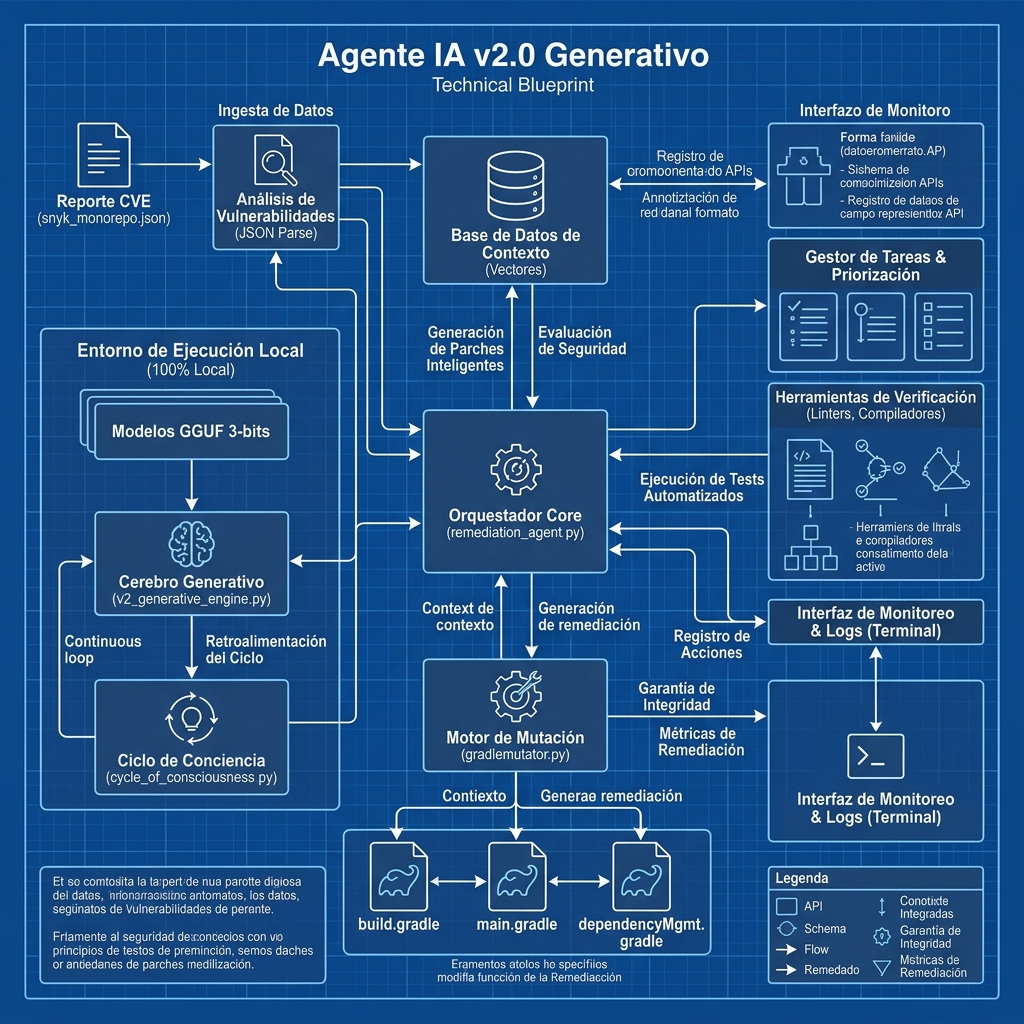
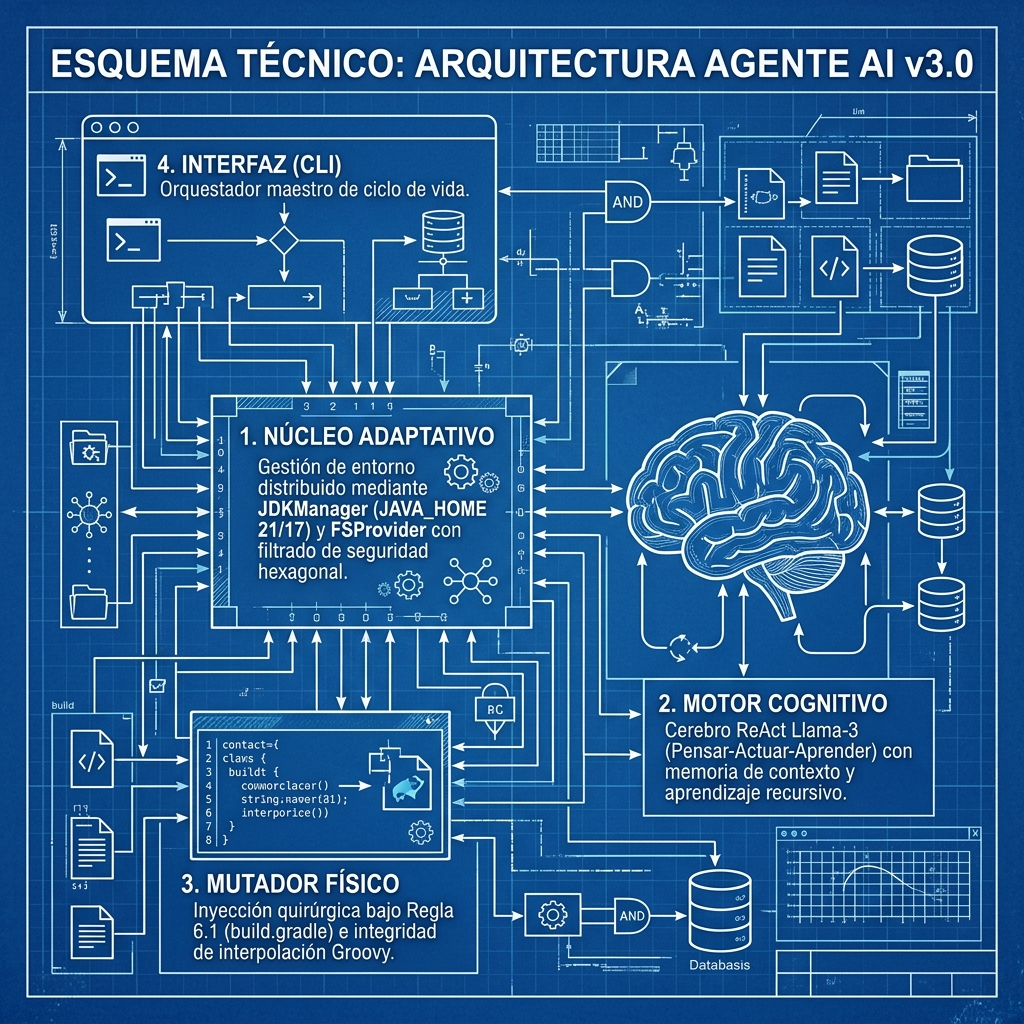
docs: update technical documentation and architecture diagrams to reflect v3.0 Adaptive features and self-healing workflow

diff --git a/README.md b/README.md
@@ -1,98 +1,113 @@
-# 🛡 Agente de Seguridad SCA: v.3.0 "Zero-Risk" (Edición Inteligencia Adaptativa)
+# 🛡 Agente de Seguridad SCA: v.3.0 "Adaptive Intelligence"
 
-Bienvenido a la **Versión 2.0** del Agente de Remediación. Este sistema ha evolucionado de un modelo predictivo tradicional a un ecosistema de **Inteligencia Artificial Generativa Autónoma**.
+Bienvenido a la **Versión 3.0** del Agente de Remediación. Este sistema ha evolucionado hacia un modelo de **Inteligencia Adaptativa**, capaz de diagnosticar y ajustarse automáticamente a las restricciones de tu entorno físico (JDK, arquitectura multi-módulo) para garantizar remediaciones exitosas.
 
-## 🚀 ¿Qué hay de nuevo en la v.3.0 "Zero-Risk"?
+## 🚀 ¿Qué hay de nuevo en la v.3.0?
 
-A diferencia de las versiones anteriores, la v.3.0 integra **Resiliencia Física y Aprendizaje Adaptativo**.
+A diferencia de las versiones anteriores, la v.3.0 integra **Resiliencia Física y Aprendizaje de Entorno**.
 
-*   **Inteligencia Adaptativa**: El Agente sobreescribe versiones del reporte si detecta fallos de compilación, aprendiendo del error en tiempo real.
-*   **Auto-Sanación Estructural (Auto-Heal)**: Reconstruye `dependencyMgmt.gradle` y cura vínculos en `main.gradle` o `gradle.properties` de forma quirúrgica.
-*   **Veracidad Física**: Se garantiza el éxito de `compileJava` antes de cualquier confirmación de cambio.
-*   **Protección de Infraestructura**: Excluye automáticamente carpetas críticas (`agent_ia`, `stress`, `certification`) para evitar auto-mutaciones.
+*   **Adaptive JDK Discovery**: Detecta automáticamente versiones compatibles de Java (JDK 21/17) para evitar errores de runtime, ignorando versiones incompatibles del sistema.
+*   **Filtrado Inteligente de Monorepo**: Discrimina automáticamente entre microservicios reales y sub-módulos (api, usecase, domain), evitando procesos innecesarios en componentes internos.
+*   **Prioridad de Mutación Crítica**: Centraliza las variables `ext` en `build.gradle` (prioritario) sobre `main.gradle`, manteniendo el estándar de arquitectura limpia.
+*   **Auto-Sanación de Infraestructura**: Reconstruye dependencias de soporte y cura vínculos de configuración de forma quirúrgica.
 
-### 🧠 El Marco ReAct (Reason + Act)
-El agente sigue un ciclo lógico:
-1.  **PENSAMIENTO**: Analiza la vulnerabilidad (CVE) y determina agrupaciones por familias.
-2.  **ACCIÓN**: Define el cambio de código y la creación de infraestructura necesaria.
-3.  **EXPLICACIÓN**: Justifica técnicamente la remediación siguiendo el **Estándar de Trinomio**.
+### 🧠 El Ciclo Adaptive ReAct
+El agente opera mediante un flujo coordinado entre sus componentes:
+
+1.  **DESCUBRIMIENTO** (`providers.py`): `FSProvider` escanea el entorno excluyendo sub-directorios técnicos.
+2.  **ADAPTACIÓN** (`providers.py`): `JDKManager` inyecta el entorno Java óptimo para Gradle.
+3.  **PENSAMIENTO** (`consciousness.py`): Analiza la vulnerabilidad (CVE) y decide la estrategia.
+4.  **MUTACIÓN** (`mutator.py`): `GradleMutator` aplica el cambio físico en los archivos `.gradle`.
+5.  **VALIDACIÓN** (`providers.py`): `GradleProvider` certifica el éxito del build antes de confirmar.
 
 ![Ciclo de Entrenamiento y Conciencia](agent_ia/docs/assets/ciclo_entrenamiento.png)
-*Visualización del Ciclo de Conciencia v.3.0: Desde la detección hasta la auto-corrección.*
+*Evolución v.3.0: Desde el descubrimiento adaptativo hasta la auto-corrección certificada.*
 
-## 🛡 Garantía de Privacidad: Tu código NO sale de tu equipo
+### 🛠 Desglose del Ciclo Adaptive ReAct (Técnico)
+```mermaid
+graph TD
+    A[Snyk Report / JSON] --> B(FSProvider: Escaneo & Filtrado)
+    B --> C{¿Módulo Raíz?}
+    C -- No --> B
+    C -- Si --> D(JDKManager: Adaptación de Entorno)
+    D --> E[Inyección de JAVA_HOME 21/17]
+    E --> F(DependencyGraph: Análisis de Linaje)
+    F --> G(Cerebro ReAct: Llama-3 ICL)
+    G --> H{¿Propuesta Lista?}
+    H -- Si --> I(GradleMutator: Mutación Física)
+    I --> J(GradleProvider: Validación Build)
+    J --> K{¿Build Successful?}
+    K -- No --> L[Aprendizaje Recursivo: Re-inyección de Error]
+    L --> G
+    K -- Si --> M[Persistencia Git / Commit v3.0]
+```
+
+## 🛡 Garantía de Privacidad
 > [!IMPORTANT]
 > **Es un sistema 100% privado y desconectado.** 
 > - **Sin Internet**: Operación local absoluta.
 > - **Tu código se queda en casa**: Ningún dato sale de tu entorno.
 > - **Cerebro Local**: Inferencia mediante modelos GGUF optimizados.
 
-## 🛠 Arquitectura Técnica
-El agente opera como una colmena coordinada de componentes locales:
+## 🛠 Arquitectura de Componentes
+El agente es un ecosistema de clases especializadas trabajando en armonía:
 
 ![Arquitectura Técnica del Agente](agent_ia/docs/assets/arquitectura_tecnica.png)
-*Arquitectura Transparente: Privacidad por diseño e integración nativa con Gradle.*
+*Arquitectura 3.0: Adaptabilidad por diseño e integración profunda con Gradle.*
 
-- **Motor de Inferencia**: `llama-cpp-python` (Optimizado para modelos GGUF).
-- **Mutación Estructural**: `GradleMutator` con capacidades de inyección y vinculación dinámica.
-- **Auto-Purge**: Limpieza automática de variables redundantes.
+### 📂 Mapa de Componentes y Archivos
+```mermaid
+classDiagram
+    class RemediationAgent {
+        +run()
+        +orchestrateCycle()
+    }
+    class Providers {
+        +FSProvider (Filtro Hexagonal)
+        +JDKManager (Adaptive JDK 21/11)
+        +GradleProvider (Build & Validate)
+    }
+    class Mutator {
+        +GradleMutator (Regla 6.1 Priority)
+        +applyInjection()
+    }
+    class Engine {
+        +GenerativeLLM (Llama-3 GGUF)
+        +Consciousness (ReAct Logic)
+    }
+    
+    RemediationAgent --> Providers : Uses
+    RemediationAgent --> Engine : Directs
+    Engine --> Mutator : Instructs
+    Providers --> Mutator : Validates
+    
+    style Providers fill:#f9f,stroke:#333,stroke-width:2px
+    style Mutator fill:#bbf,stroke:#333,stroke-width:2px
+    style Engine fill:#dfd,stroke:#333,stroke-width:2px
+```
+
+- **`remediation_agent.py`**: El orquestador maestro que coordina el ciclo de vida.
+- **`providers.py`**: Inteligencia ambiental (Gestión de JDK, Archivos y Gradle).
+- **`mutator.py`**: El motor físico de cambio. Implementa las "Leyes de Inyección".
+- **`consciousness.py`**: El bucle de razonamiento que aprende de los errores de compilación.
 
 ## 📋 Requisitos de Entorno
-- **Python 3.10+** (Recomendado 3.11+)
-- **Java 21 (LTS)**: Requisito fundamental. Se requiere configuración modular (`jvmargs`) para compatibilidad industrial con Lombok.
-- **Git**: Instalado y configurado para persistencia de remediación exitosa.
-- **Suite de Certificación**: Acceso al script `run_master_certification.py` para auditorías de cumplimiento.
+- **Python 3.10+**
+- **Java 21/17**: El agente descubrirá automáticamente estas versiones en tu equipo.
+- **Git**: Requerido para la persistencia de remediaciones mediante el flag `-c`.
 
 ## 🖱 Guía de Ejecución Rápida
-El Agente es flexible y permite operar en modo "Solo Lectura/Escritura Local" o en modo "Persistencia Git". Selecciona la combinación que mejor se adapte a tu flujo de trabajo:
-
-### 🎮 Combinaciones de Comandos
 
 | Caso de Uso | Comando Sugerido | Descripción |
 | :--- | :--- | :--- |
-| **Fix Local (Dry-Run)** | `python3 remediation_agent.py` | Modifica los archivos físicamente pero **NO crea ramas ni commits**. Útil para inspección manual previa. |
-| **Remediación Total Segura** | `python3 remediation_agent.py -c` | El estándar de producción. Aplica cambios, valida y **crea rama/commit** solo si el build es exitoso. |
-| **Foco en Microservicio** | `python3 remediation_agent.py -f ms-auth -c` | Ejecuta la inteligencia solo en la carpeta especificada y persiste resultados validados en Git. |
-| **Diagnóstico & Debug** | `python3 remediation_agent.py --debug -f ms-clients` | Habilita la salida detallada de Gradle en tiempo real para entender por qué falla un test. |
-| **Entorno Personalizado** | `python3 remediation_agent.py --gradle-path /usr/bin/gradle -c` | Fuerza el uso de una instalación específica de Gradle en entornos donde no existe el `gradlew`. |
-| **Reporte Externo** | `python3 remediation_agent.py --report scanning_report.json` | Ejecuta el ciclo de remediación basándose en un archivo JSON específico de vulnerabilidades. |
+| **Fix Global v.3.0** | `python3 remediation_agent.py` | Remedia todo el monorepo con lógica adaptativa. |
+| **Commit Certificado** | `python3 remediation_agent.py -c` | Persiste en Git solo si el build es exitoso. |
+| **Foco Específico** | `python3 remediation_agent.py -f ms-auth` | Prioriza un microservicio específico. |
+| **Modo Transparente** | `python3 remediation_agent.py --debug` | Muestra la salida real de Gradle y el pensamiento de la IA. |
 
-### 🛡 Lógica de Persistencia `--commit`
-Es importante entender que el Agente prioriza la integridad del monorepo:
-1. **Sin el flag `--commit`**: El agente es destructivo localmente (modifica archivos) pero **conservador en Git**.
-2. **Con el flag `--commit`**: El agente garantiza que **CADA commit es un BUILD SUCCESSFUL**. Si la validación falla, se realiza un rollback automático y Git permanece limpio.
-
-## 🔍 Monitoreo y Depuración (Modo Debug)
-Si el proceso de validación (`gradle clean test`) toma mucho tiempo y deseas ver qué está ocurriendo, puedes activar el **Modo Debug** para habilitar la salida detallada de Gradle en tiempo real.
-
-### Via Flag CLI:
-```bash
-python3 remediation_agent.py --debug
-```
-
-### Combinando Flags:
-```bash
-python3 remediation_agent.py -f ms-clients --debug
-```
-
-## ✨ Últimas Innovaciones v.3.0
-
-### 🧩 Almacenamiento de Dependencias Híbrido
-A diferencia de versiones anteriores que delegaban todo a la centralización, la **v.3.0** utiliza ahora un enfoque híbrido:
-- **Centralización Directa**: Mantiene las reglas de resolución en `dependencyMgmt.gradle`.
-- **Preservación Local**: Las líneas `implementation` en cada `build.gradle` se mantienen, pero se sustituyen automáticamente por variables (ej. `implementation "group:artifact:${varName}"`), garantizando que el microservicio siga siendo autodocumentado.
-
-## 📚 Gobernanza y Documentación
-Para profundizar en la arquitectura y operación del Agente, consulta los manuales maestros:
-
-1.  👉 **[Master Remediation Rulebook v.3.0](agent_ia/docs/remediation_rules.md)**: Estándares técnicos, leyes de inyección y protocolos de Git.
-2.  👉 **[Technical & Operator Manual](agent_ia/docs/manuals/TECHNICAL_MANUAL.md)**: Teoría de la IA Autónoma, facultades del Agente, flujos de ejecución y resolución de problemas.
-
-### 🏗 Inyección de Configuración Robusta (v.3.0)
-El motor de mutación ha sido rediseñado para una **Estética Industrial**:
-- **Indentación Estándar**: Cada bloque inyectado sigue el estándar de **4 espacios**, garantizando limpieza visual en el código fuente.
-- **Veracidad de Compilación**: Cada parche es validado físicamente previo a su aprobación lógica.
-- **Header Dinámico**: Metadatos de seguridad claros en cada script generado.
+## 📚 Documentación Maestra
+1.  👉 **[Rulebook v.3.0](agent_ia/docs/remediation_rules.md)**: Estándares de inyección y prioridad de archivos.
+2.  👉 **[Technical Manual](agent_ia/docs/manuals/TECHNICAL_MANUAL.md)**: Guía profunda sobre la arquitectura adaptativa.
 
 ---
 *Protección Generativa para Microservices. Inteligencia v.3.0 Local y Privada.*

diff --git a/agent_ia/docs/manuals/TECHNICAL_MANUAL.md b/agent_ia/docs/manuals/TECHNICAL_MANUAL.md
@@ -1,52 +1,84 @@
-# Manual Técnico y de Operación: Agente IA v.3.0
+# Manual Técnico y de Operación: Agente IA v.3.0 Adaptive
 
-Este documento constituye la fuente única de verdad para entender la teoría, las facultades autónomas y la operación práctica del Agente de Remediación Generativa.
-
----
-
-## 1. Fundamentos de la IA Autónoma
-
-A diferencia de la automatización tradicional, este sistema opera como un **Agente Inteligente** con capacidades cognitivas aplicadas a la ciberseguridad.
-
-### 🧠 Facultades del Agente
-*   **Razonamiento ReAct (Cerebro)**: El Agente no ejecuta comandos ciegos. Sigue un ciclo cognitivo de **Pensamiento -> Acción -> Explicación**, permitiéndole entender el contexto semántico de un microservicio antes de proponer un cambio.
-*   **Ciclo de Autocorrección (Self-Healing)**: Si una validación falla (ej. error de compilación), el Agente captura el log de error, lo interpreta como una nueva lección y genera una propuesta corregida de forma recursiva.
-*   **In-Context Learning (ICL)**: El sistema no requiere reglas estáticas para cada librería. Deduce la solución óptima vinculando dinámicamente el Master Rulebook, los datos del CVE y la estructura real de los archivos Gradle.
-*   **Orquestación Atómica ("Success or Nothing")**: El Agente coordina backups preventivos, mutaciones multivariantes y validación de salud en una sola operación atómica. Si el éxito no está garantizado, el sistema realiza un rollback completo.
+Este documento constituye la fuente única de verdad para entender la ingeniería de entorno, las facultades autónomas y la operación práctica del Agente v.3.0.
 
 ---
 
-## 2. Arquitectura de Pensamiento (v.3.0)
+## 1. Ingeniería de Entorno Adaptativo
 
-### De Predicción a Razonamiento
-El agente ha abandonado los modelos estadísticos rígidos por un marco deductivo en tiempo real:
-- **Soberanía de Nomenclatura**: La IA tiene prioridad para definir estándares de variables (ej. `familyVersion`) si detecta una necesidad arquitectónica.
-- **Single Version Policy**: El Cerebro Generativo garantiza la integridad estructural eligiendo estrictamente una única versión segura compatible con la rama del proyecto.
+A diferencia de versiones anteriores, la v.3.0 no depende de una configuración estática del sistema. El agente ahora cuestiona y ajusta su propio entorno de ejecución.
+
+### 🧩 Gestión de JDK (JDKManager)
+Ubicación: `agent_ia/core/providers.py`
+El componente `JDKManager` realiza un descubrimiento autónomo de binarios de Java en el equipo del usuario. 
+- **Lógica de Selección**: Prioriza JDK 21 o 17 sobre versiones más recientes (como JDK 25) si detecta que estas últimas causan errores de inicialización en Gradle (`ExceptionInInitializerError`).
+- **Inyección Dinámica**: El `JAVA_HOME` detectado se inyecta en cada proceso de Gradle y en la construcción del grafo de dependencias para garantizar consistencia absoluta.
+
+### 📂 Filtrado de Microservicios (FSProvider)
+Ubicación: `agent_ia/core/providers.py`
+Para optimizar la remediación en monorepos complejos o arquitecturas hexagonales, el `FSProvider` implementa una lista de exclusión inteligente.
+- **Exclusión de Sub-módulos**: Filtra carpetas como `api`, `usecase`, `domain`, `infrastructure`, `src` y `bin`.
+- **Foco en Raíz**: Solo identifica como microservicios aquellos directorios que contienen un `build.gradle` y actúan como puntos de entrada compilables.
 
 ---
 
-## 3. Guía de Operación (Operator Manual)
+## 2. Arquitectura de Pensamiento ReAct 3.0
 
-### Flujo de Ejecución Profundo
-1.  **Descubrimiento**: Escaneo del monorepo y detección de microservicios afectados.
-2.  **Inferencia ReAct**: Razonamiento sobre criticidad y conflictos potenciales.
-3.  **Remediación Física**: Invocación al `GradleMutator` para la escritura quirúrgica del cambio.
-4.  **Validación & Aprendizaje**: Ejecución de `gradle clean test` y retroalimentación de errores.
-5.  **Persistencia & Trazabilidad**: Creación de rama de seguridad y commit consolidado (solo en caso de éxito).
+### El Bucle de Consciencia (`consciousness.py`)
+El agente ha evolucionado su marco deductivo:
+1.  **Razonamiento Profundo**: El agente utiliza metadatos de linaje (`graph.py`) para entender si una vulnerabilidad es directa o transitiva.
+2.  **Aprendizaje de Error**: Si el primer intento de remediación falla (ej. incompatibilidad de versiones), el log de error de Gradle se re-inyecta al modelo para generar una segunda propuesta más precisa.
+3.  **Trazabilidad Jerárquica**: Los logs ahora reflejan visualmente esta jerarquía, permitiendo auditar el "Pensamiento" de la IA en cada sub-proceso.
+
+---
+
+## 3. Motor de Mutación y Leyes de Inyección
+
+### `GradleMutator.py`
+El motor físico aplica cambios siguiendo reglas de seguridad industrial:
+- **Regla de Prioridad 6.1**: El agente siempre buscará y aplicará la inyección de variables `ext` en `build.gradle` (estándar de Spring Boot). Si no existe, recurrirá a `main.gradle`.
+- **Blindaje de Interpolación**: Todas las variables inyectadas utilizan comillas dobles (`"..."`) para permitir la interpolación de Groovy, evitando errores de sintaxis comunes en remediaciones manuales.
+
+### 📋 Matriz de Responsabilidades Técnicas (v.3.0)
+
+El sistema opera bajo un contrato de responsabilidades atómicas para garantizar el "Zero-Risk":
+
+| Componente | Archivo | Responsabilidad Principal | Regla Maestra |
+| :--- | :--- | :--- | :--- |
+| **Orquestador** | `remediation_agent.py` | Control de flujo y persistencia Git. | Success or Nothing |
+| **JDKManager** | `providers.py` | Detección de JDK 21/17 y export de JAVA_HOME. | Adaptive Runtime |
+| **FSProvider** | `providers.py` | Filtrado hexagonal de sub-módulos (api/domain/etc). | Target Root Only |
+| **Mutator** | `mutator.py` | Escritura quirúrgica y prioridad de archivos. | Rule 6.1 (build.gradle) |
+| **Consciousness** | `consciousness.py` | Re-inyección de errores y razonamiento ReAct. | Self-Healing Loop |
+
+### 🔄 Flujo de Autocorrección (Self-Healing)
+```mermaid
+sequenceDiagram
+    participant A as RemediationAgent
+    participant B as Mutator
+    participant C as GradleProvider
+    participant D as Consciousness
+    
+    A->>B: Aplica Propuesta #1
+    B-->>A: Mutación Física exitosa
+    A->>C: Ejecuta gradle clean build
+    C-->>A: FAILURE (Error de Compilación)
+    A->>D: Envía Log de Error + Contexto
+    D->>D: Razonamiento ReAct v3.0
+    D-->>A: Genera Propuesta Corregida #2
+    A->>B: Aplica Propuesta #2
+    A->>C: Re-Valida Build
+    C-->>A: SUCCESS
+    A->>A: Persiste Cambio
+```
 
 ---
 
 ## 4. Resolución de Problemas e Infraestructura
 
-### Requisitos Obligatorios
-Para garantizar la estabilidad del sistema, el entorno debe cumplir con:
-- **JDK 21 LTS**: Indispensable para estabilidad en Gradle 9 / Spring Boot 3.
-- **JUnit Platform Launcher**: Requerido en todos los microservicios para detección de tests.
-
-### Solución de Fallos Comunes
-- **Gradle no encontrado**: El agente busca en rutas estándar (`/usr/local/bin`, etc.). Si falla, se debe usar el flag `--gradle-path`.
-- **Fallo en Test**: Verifica logs de puerto ocupado o acceso a red. El Agente solo persiste cambios que pasan exitosamente el build.
-- **Conflicto de Familias**: La IA prioriza siempre la versión más reciente que mantenga la compatibilidad con el Rulebook Maestro.
+### Fallos Comunes y Diagnóstico
+- **`INFRA_ERROR`**: El agente abortará si no detecta un entorno Java compatible o si Gradle no está disponible.
+- **Rollback Automático**: Si una mutación causa un fallo de compilación tras 3 intentos, el agente restaura el estado original del microservicio para mantener la integridad del repositorio.
 
 ---
-*Manual Maestro Unificado v.3.0.*
+*Manual Maestro Unificado v.3.0 Adaptive.*

diff --git a/agent_ia/docs/remediation_rules.md b/agent_ia/docs/remediation_rules.md
@@ -1,64 +1,43 @@
-# Master Remediation Rulebook v.3.0 "Zero-Risk"
-## Manual Maestro de Operaciones e Inteligencia del Agente IA
+# Master Remediation Rulebook v.3.0 "Adaptive Zero-Risk"
 
-Este documento define la misión, los estándares técnicos y los protocolos de ejecución del Agente de Remediación. Sirve como la **Fuente de Verdad** para la toma de decisiones autónomas en el monorepo.
-
----
-
-### 1. Misión y Propósito
-El objetivo fundamental del Agente es la **Estabilización y Aseguramiento Autónomo** del software mediante la remediación de vulnerabilidades (CVEs) con "Cero Corrupción" de archivos. El Agente no solo aplica parches, sino que garantiza que cada cambio mantenga la integridad operativa del sistema mediante validaciones rigurosas.
+Este documento define la visión técnica y las leyes de inyección del Agente v.3.0. Es la Fuente de Verdad para garantizar la integridad estructural del monorepo.
 
 ---
 
-### 2. Estándares de Infraestructura (LTS)
-Para garantizar la estabilidad en entornos monorepo de alto rendimiento (Gradle 8/9, Spring Boot 3), se establecen los siguientes requisitos innegociables:
-
-- **Entorno JVM (Java 21 LTS)**: Todos los procesos de construcción deben ejecutarse bajo JDK 21. Se prohíbe el uso de versiones superiores para evitar incompatibilidades críticas.
-- **Acceso Modular**: Es obligatorio configurar `jvmargs` con `--add-opens` y `--add-exports` en `gradle.properties` para procesadores de anotaciones (Lombok).
-- **Validación de Tests (JUnit Platform)**: Cada microservicio debe incluir `testRuntimeOnly 'org.junit.platform:junit-platform-launcher'`.
-- **Configuración Persistente**: La propiedad `org.gradle.java.home` debe estar sincronizada en todo el monorepo.
+### 1. Misión de Estabilidad Adaptativa
+El objetivo es la remediación autónoma que se ajusta a las limitaciones del entorno. El agente tiene la soberanía de adaptar el JDK y la infraestructura de soporte para lograr el `BUILD SUCCESSFUL`.
 
 ---
 
-### 3. Inteligencia de Remediación (Precision First)
-El Agente utiliza una estrategia de **Mutación de Alta Precisión** para evitar inyectar código malformado:
-
-- **Regla de Versión Única**: Se prohíbe el uso de rangos. El Agente elige una versión segura compatible con la rama del proyecto.
-- **Inteligencia Adaptativa (Regla 4)**: Si la versión del reporte falla, el Agente tiene facultad de **Override** para aplicar la versión sugerida por su Cerebro Generativo tras el fallo.
-- **Estándar de Indentación**: Todas las inyecciones en bloques `ext` deben seguir el estándar industrial de **4 espacios** para alineación perfecta.
-- **Standard de Metadatos (Auditoría)**: Uso estricto de `because "Fix: CVE-XXXX-XXXXX"` sin acumulación de historial.
-- **Exclusiones de Seguridad**: El Agente nunca debe intervenir carpetas de infraestructura (`agent_ia`), de estrés (`stress`) o de certificación (`certification`).
+### 2. Estándares de Entorno (JDKManager)
+- **Selección de Java**: Se prohíbe el uso de versiones de Java que causen incompatibilidad con el ecosistema de Gradle. El agente descubrirá y priorizará JDK 21 o 17 sobre JDK 25 si el sistema lo requiere.
+- **Acceso Modular**: Inyección obligatoria de `jvmargs` modularizados en `gradle.properties` para soportar Lombok y otras herramientas industriales.
 
 ---
 
-### 4. Ciclo de Conciencia (Self-Healing)
-El Agente opera bajo un ciclo cerrado de retroalimentación recursiva:
-1. **PENSAMIENTO**: Análisis de la vulnerabilidad y el contexto del microservicio.
-2. **ACCIÓN**: Generación y aplicación física del parche estructural.
-3. **VALIDACIÓN FÍSICA**: Ejecución de `gradle clean compileJava test` para certificar la veracidad del cambio.
-4. **AUTO-HEAL**: Si falta la infraestructura de seguridad o el vínculo en `main.gradle`, el Agente la reconstruye antes de la validación.
-5. **APRENDIZAJE**: Si el build falla, el error se re-inyecta para un override inteligente de versión (Hasta 3 intentos).
+### 3. Leyes de Mutación Estructural (Precision First)
+El Agente opera bajo reglas físicas estrictas:
+- **Blindaje por Interpolación**: Todas las versiones inyectadas en bloques `ext` DEBEN usar comillas dobles (`"..."`). Se prohíben comillas simples para asegurar la correcta resolución de variables en Groovy.
+- **Regla de Prioridad 6.1 (Archivo Raíz)**: Para la inyección de variables globales `ext`:
+    1.  Prioridad 1: `build.gradle`
+    2.  Prioridad 2: `main.gradle`
+- **Consolidación de Reglas**: Las resoluciones transitivas se centralizan en `dependencyMgmt.gradle`, evitando la dispersión de reglas fuera de este archivo de infraestructura.
 
 ---
 
-### 5. Trazabilidad y Gestión de Git (Success or Nothing)
-La persistencia de los cambios en el repositorio es **Dinámica y Bajo Demanda**:
-
-- **Activación por Comando**: La integración con Git NO es estática. Se activa exclusivamente mediante el parámetro `--commit` (o `-c`) en la línea de comandos.
-- **Branching Condicional**: Al finalizar la sesión, se creará una nueva rama (ej: `security/remediation_TIMESTAMP`) **SÓLO SI** se logró al menos una remediación exitosa y validada.
-- **Commit Consolidado**: Se realiza un único commit global al final del proceso con un mensaje profesional que detalla microservicios y CVEs.
-
----
-
-### 6. Guía de Ejecución Rápida (CLI)
-Para operar el Agente de forma eficiente y portable, utiliza los siguientes flags:
-
-| Operación | Comando Sugerido |
-| :--- | :--- |
-| **Remediación Total** | `python3 remediation_agent.py --commit` |
-| **Filtrado por Microservicios** | `python3 remediation_agent.py --folders ms-auth ms-sales --commit` |
-| **Ruta Gradle Personalizada** | `python3 remediation_agent.py --gradle-path /usr/local/bin/gradle --commit` |
-| **Modo Debug** | `python3 remediation_agent.py --debug --folders ms-clients` |
+### 4. Ciclo Adaptive ReAct
+1. **DESCUBRIMIENTO**: Identifica solo microservicios compilables (excluye `api`, `usecase`, `domain`).
+2. **ADAPTACIÓN**: Inyecta el entorno Java idóneo.
+3. **PENSAMIENTO**: Decide la versión basada en familia y linaje.
+4. **MUTACIÓN**: Aplica el parche siguiendo la Regla 6.1 y Comillas Dobles.
+5. **VALIDACIÓN**: Certifica con `gradle clean build`.
 
 ---
-*Este manual es una extensión de la visión v.3.0, optimizado para la automatización total del flujo DevSecOps.*
+
+### 5. Trazabilidad y Seguridad
+- **Indentación**: Uso estricto de **4 espacios**.
+- **Rollback**: Ante cualquier fallo de infraestructura o compilación tras 3 intentos, el agente restaura el estado original (`Zero-Risk`).
+- **Logs**: Jerarquía visible con 0, 4 y 8 espacios para facilitar la auditoría humana del Pensamiento de la IA.
+
+---
+*Este manual es una extensión de la visión v.3.0 Adaptive, optimizado para la automatización total del flujo DevSecOps.*
